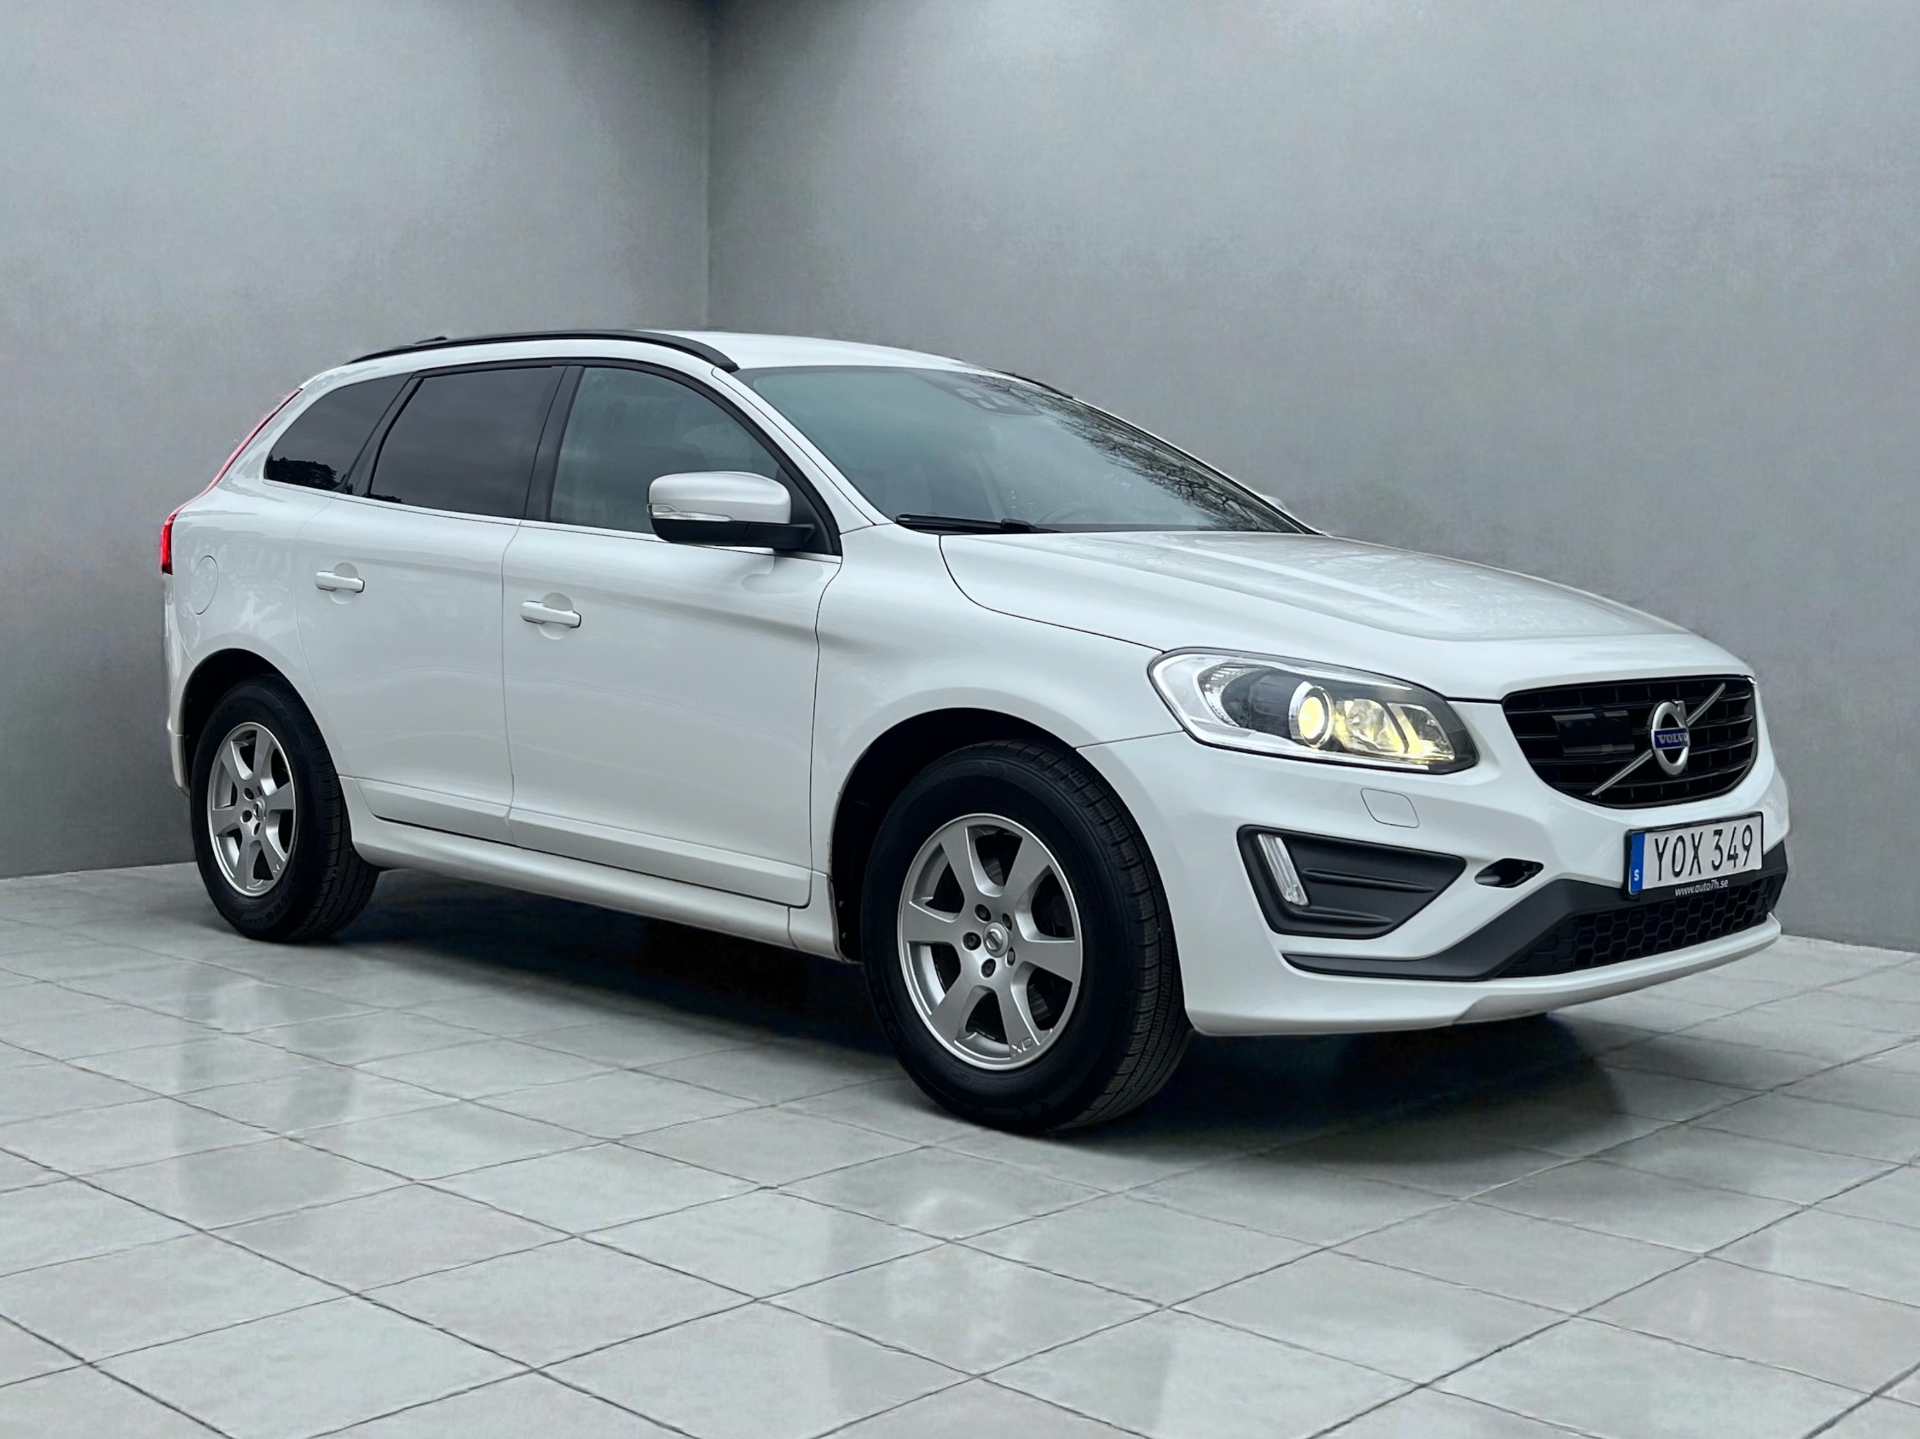
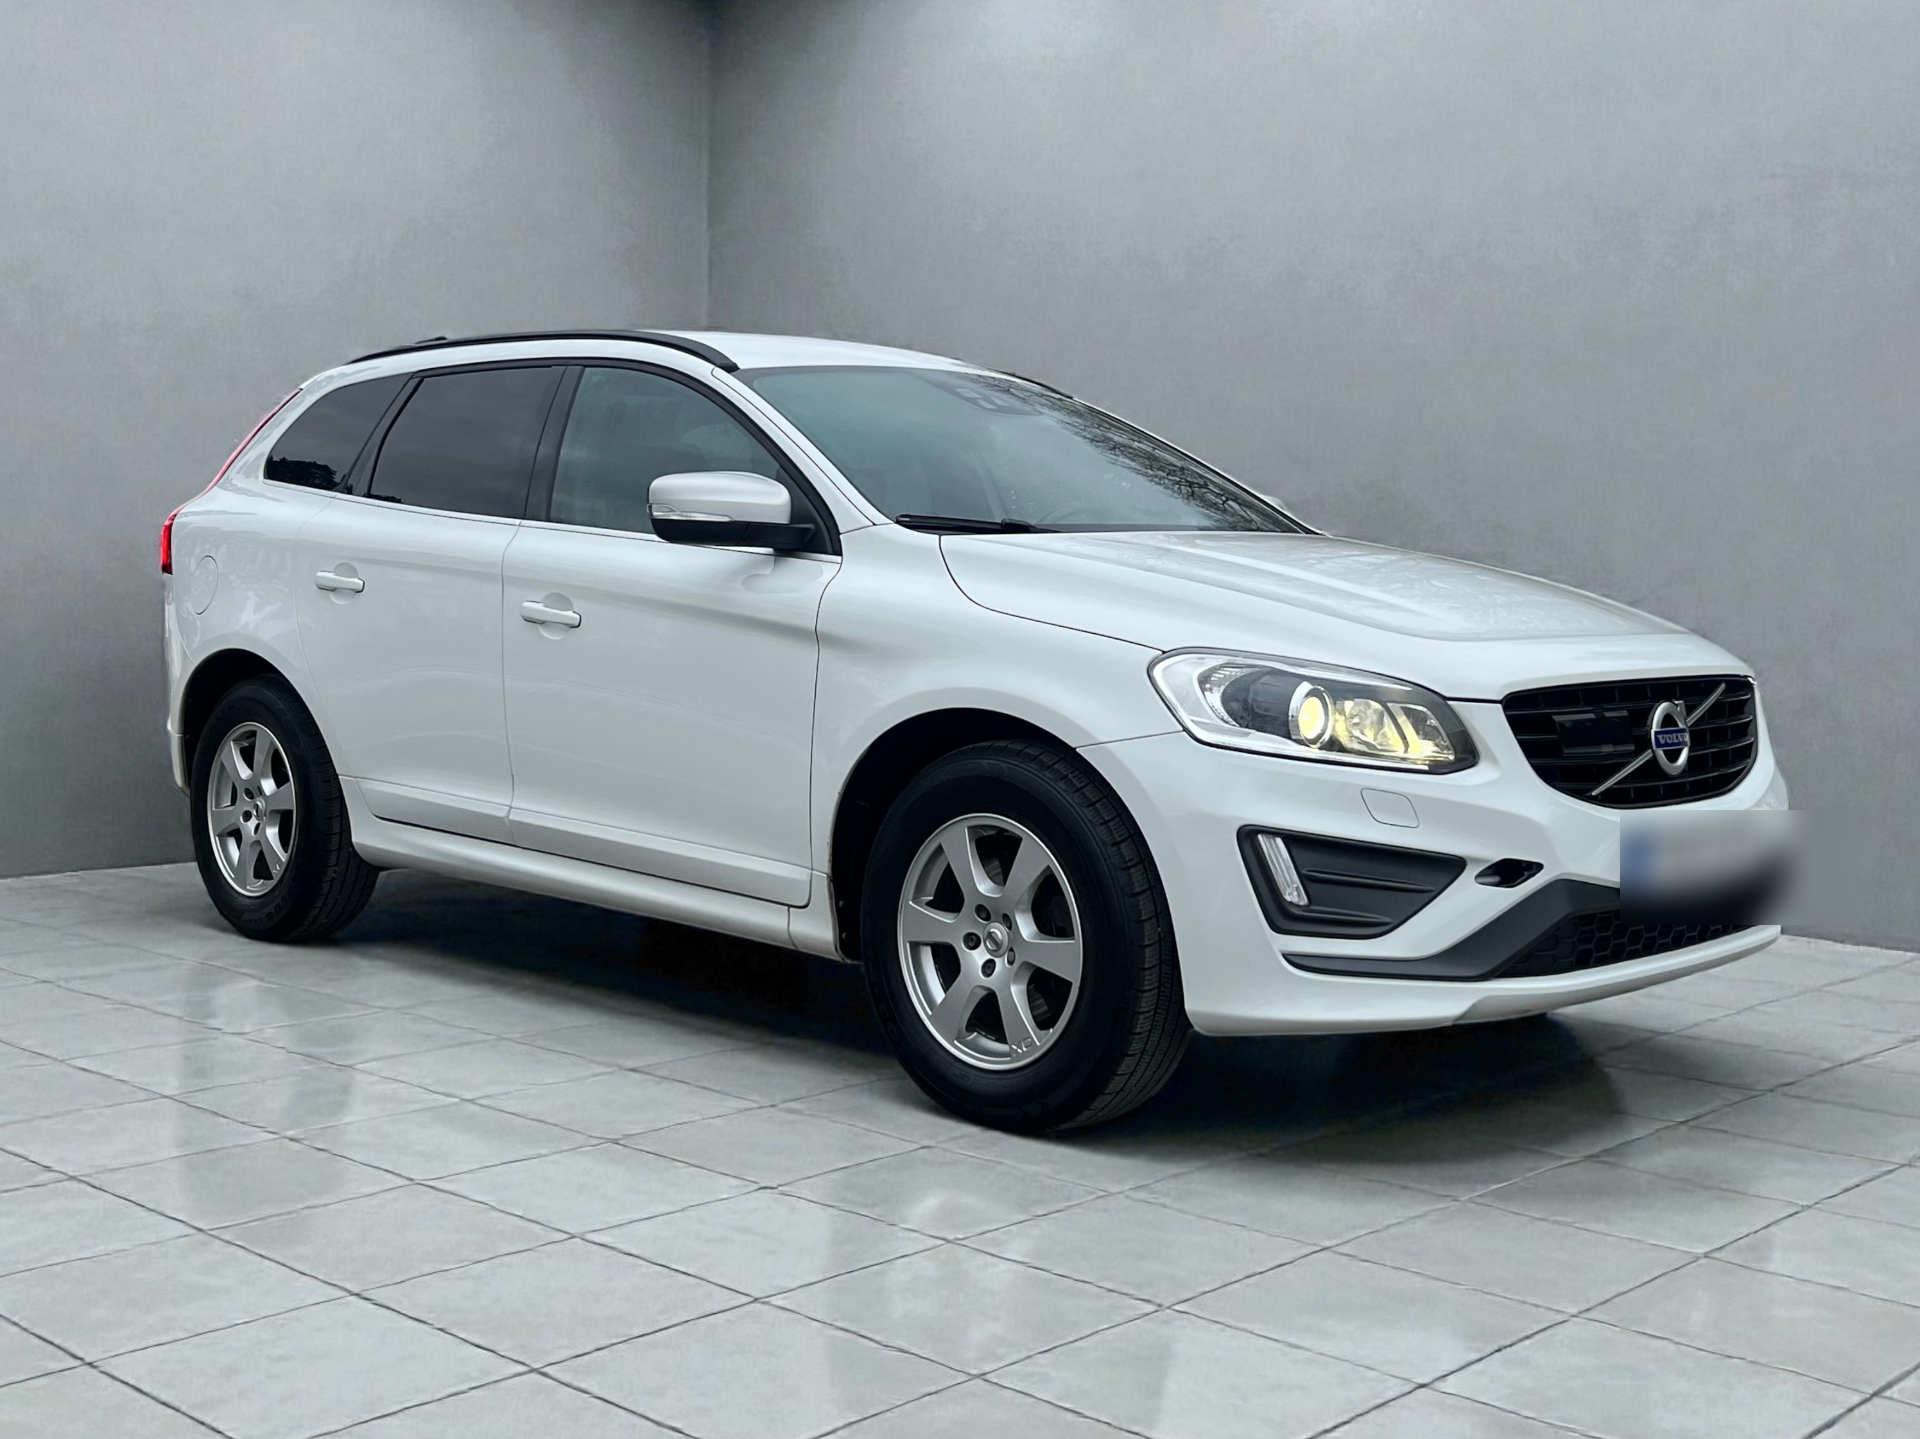
Replace watermarked example images and blur visible plates
ford-after, vw-after and audi-after carried Photoroom sandbox watermarks and
are removed together with their now-unused before shots; Landing hero/slider
and the auth brand panel use the clean partner before/after pair instead.
License plates in blur-example and volvo-crop-example are blurred — the guide
was showing readable plates while marketing plate hiding.

Claude-Session: https://claude.ai/code/session_01BmmmzmwaPz5h6momtwxuZF

Changed region(s): [[0.8438, 0.5504, 0.9375, 0.6421]]

diff --git a/src/pages/Landing.tsx b/src/pages/Landing.tsx
@@ -28,10 +28,8 @@ import {
 } from "lucide-react";
 import autopicLogoDark from "@/assets/autopic-logo-dark.png";
 import autopicLogoWhite from "@/assets/autopic-logo-white.png";
-import fordBefore from "@/assets/examples/ford-before.png";
-import fordAfter from "@/assets/examples/ford-after.png";
-import vwBefore from "@/assets/examples/vw-before.png";
-import vwAfter from "@/assets/examples/vw-after.png";
+import partnerBefore from "@/assets/examples/partner-before.jpg";
+import partnerAfter from "@/assets/examples/partner-after.png";
 
 const SCENE_PREVIEWS = [
   { src: "/scenes/white-studio.png", label: "Vit studio" },
@@ -182,7 +180,7 @@ const Landing = () => {
             <div className="relative">
               <div className="rounded-[var(--radius)] overflow-hidden shadow-elegant border border-border/30">
                 <img
-                  src={fordAfter}
+                  src={partnerAfter}
                   alt="Bil i professionell studio-bakgrund skapad med AutoPic"
                   className="w-full h-auto"
                   loading="eager"
@@ -204,8 +202,8 @@ const Landing = () => {
           </p>
           <div className="max-w-3xl mx-auto">
             <BeforeAfterSlider
-              beforeSrc={vwBefore}
-              afterSrc={vwAfter}
+              beforeSrc={partnerBefore}
+              afterSrc={partnerAfter}
               beforeLabel="Före"
               afterLabel="Efter"
             />

diff --git a/src/pages/Auth.tsx b/src/pages/Auth.tsx
@@ -4,6 +4,7 @@ import { useTheme } from 'next-themes';
 import { useAuth } from '@/contexts/AuthContext';
 import autopicLogoDark from '@/assets/autopic-logo-dark.png';
 import autopicLogoWhite from '@/assets/autopic-logo-white.png';
+import partnerAfter from '@/assets/examples/partner-after.png';
 import { Button } from '@/components/ui/button';
 import { Input } from '@/components/ui/input';
 import { PasswordInput } from '@/components/ui/password-input';
@@ -518,7 +519,7 @@ const Auth = () => {
             ))}
           </ul>
           <div className="rounded-[14px] overflow-hidden border border-white/10 shadow-2xl">
-            <img src="/scenes/nordisk-dagsljus.jpg" alt="AI-genererad miljö i nordiskt dagsljus" className="w-full h-auto" loading="lazy" />
+            <img src={partnerAfter} alt="Bil i ny miljö skapad med AutoPic" className="w-full h-auto" loading="lazy" />
           </div>
         </div>
 